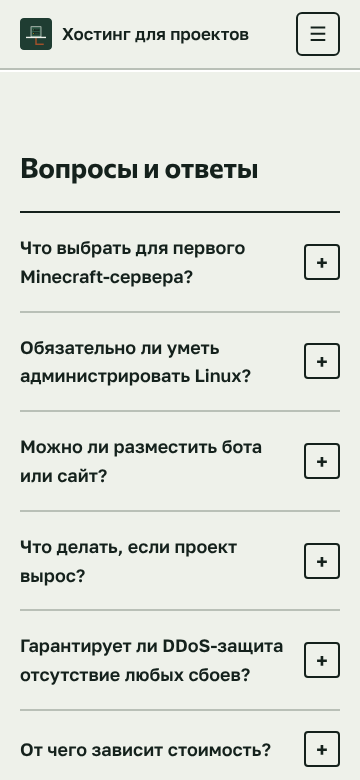
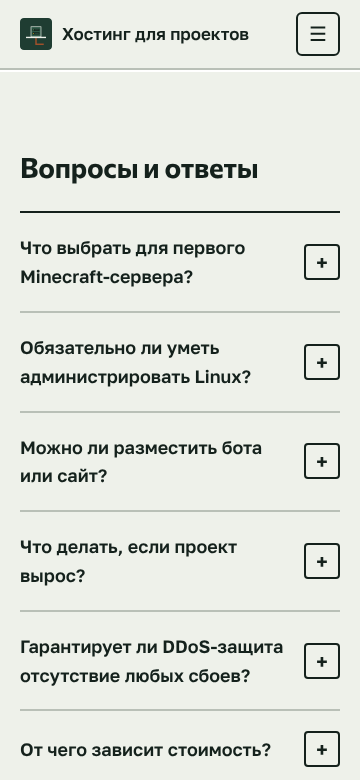
Исправить горизонтальную прокрутку на 360 px
Ограничение ширины картинки Minecraft раздувало колонку сетки
до 480 px на телефоне. Колонка теперь minmax(0,1fr), картинка
width:100% с max-width:480px. Автопроверка: 22/22.

Claude-Session: https://claude.ai/code/session_01KBMBMGNB64NELAB136cQqw

diff --git a/preview/index.html b/preview/index.html
@@ -146,10 +146,10 @@
   footer a{color:#fff}
 
   @media (max-width:980px){
-    .hero .grid,.main-dir,.contact .grid,.approach{grid-template-columns:1fr}
+    .hero .grid,.main-dir,.contact .grid,.approach{grid-template-columns:minmax(0,1fr)}
     .hero .text{padding-bottom:0}
     .approach img{max-width:260px}
-    .main-dir img{max-width:480px}
+    .main-dir img{width:100%;max-width:480px}
     .main-dir{gap:28px}
   }
   @media (max-width:900px){
